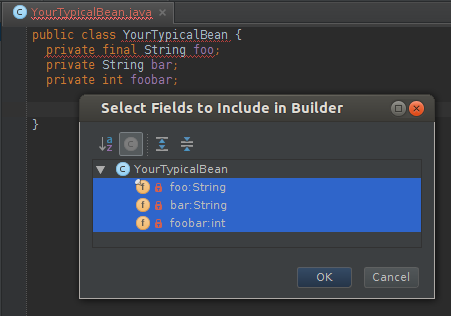
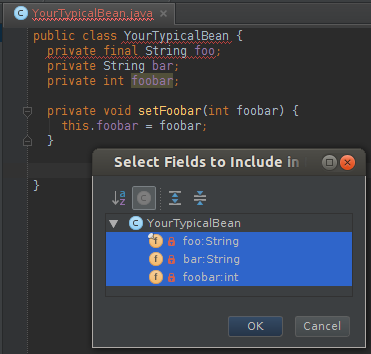
Start new version. Better handling of existing methods. [ci skip]

diff --git a/src/main/java/org/jetbrains/plugins/innerbuilder/GenerateInnerBuilderHandler.java b/src/main/java/org/jetbrains/plugins/innerbuilder/GenerateInnerBuilderHandler.java
@@ -77,37 +77,22 @@ public class GenerateInnerBuilderHandler implements LanguageCodeInsightActionHan
                     }
                 }
                 constructorTakingBuilder.append("}");
-                codeStyleManager.reformat(addOrReplaceMethod(clazz, constructorTakingBuilder.toString()));
+                codeStyleManager.reformat(addMethod(clazz, null, constructorTakingBuilder.toString()));
 
-                // final fields become constructor fields in the builder
-                List<PsiField> finalFields = new ArrayList<PsiField>();
+                List<PsiFieldMember> finalFields = new ArrayList<PsiFieldMember>();
+                List<PsiFieldMember> nonFinalFields = new ArrayList<PsiFieldMember>();
+
+                PsiElement addedField = null;
                 for (PsiFieldMember member : fieldMembers) {
                     PsiField field = member.getElement();
+
+                    addedField = addField(builderClass, addedField, field.getName(), field.getType());
 
                     if (field.hasModifierProperty(PsiModifier.FINAL)) {
-                        finalFields.add(field);
-                    }
-                }
-
-                // add all final fields to the builder
-                for (PsiField field : finalFields) {
-                    if (!hasField((builderClass), field)) {
-                        PsiField builderField = psiElementFactory.createField(field.getName(), field.getType());
-                        builderField.getModifierList().setModifierProperty(PsiModifier.FINAL, true);
-                        builderClass.add(builderField);
-                    }
-                }
-
-                // add all non-final fields to the builder
-                List<PsiField> nonFinalFields = new ArrayList<PsiField>();
-                for (PsiFieldMember member : fieldMembers) {
-                    PsiField field = member.getElement();
-
-                    if (!hasField((builderClass), field) && !field.hasModifierProperty(PsiModifier.FINAL)) {
-                        nonFinalFields.add(field);
-
-                        PsiField builderField = psiElementFactory.createField(field.getName(), field.getType());
-                        builderClass.add(builderField);
+                        finalFields.add(member);
+                        ((PsiField) addedField).getModifierList().setModifierProperty(PsiModifier.FINAL, true);
+                    } else {
+                        nonFinalFields.add(member);
                     }
                 }
 
@@ -115,63 +100,78 @@ public class GenerateInnerBuilderHandler implements LanguageCodeInsightActionHan
                 StringBuilder constructor = new StringBuilder();
                 constructor.append("public Builder(");
 
-                for (Iterator<PsiField> iterator = finalFields.iterator(); iterator.hasNext(); ) {
-                    PsiField field = iterator.next();
-                    constructor.append(field.getTypeElement().getType().getCanonicalText()).append(" ").append(field.getName());
+                for (Iterator<PsiFieldMember> iterator = finalFields.iterator(); iterator.hasNext(); ) {
+                    PsiFieldMember member = iterator.next();
+                    constructor.append(member.getElement().getType().getCanonicalText()).append(" ").append(member.getElement().getName());
 
                     if (iterator.hasNext()) {
-                        constructor.append(",");
+                        constructor.append(", ");
                     }
                 }
                 constructor.append(") {");
-                for (PsiField field : finalFields) {
-                    constructor.append("this.").append(field.getName()).append("=").append(field.getName()).append(";");
+                for (PsiFieldMember field : finalFields) {
+                    constructor.append("this.").append(field.getElement().getName()).append("=").append(field.getElement().getName()).append(";");
                 }
                 constructor.append("}");
-                addOrReplaceMethod(builderClass, constructor.toString());
+                addMethod(builderClass, null, constructor.toString());
 
                 // copy builder constructor, accepting a clazz instance
                 StringBuilder copyConstructor = new StringBuilder();
                 copyConstructor.append("public Builder(").append(clazz.getName()).append(" copy) {");
-                for (PsiField field : finalFields) {
-                    copyConstructor.append(field.getName()).append("= copy.").append(field.getName()).append(";");
+                for (PsiFieldMember member : finalFields) {
+                    copyConstructor.append(member.getElement().getName()).append("= copy.").append(member.getElement().getName()).append(";");
                 }
-                for (PsiField field : nonFinalFields) {
-                    copyConstructor.append(field.getName()).append("= copy.").append(field.getName()).append(";");
+                for (PsiFieldMember member : nonFinalFields) {
+                    copyConstructor.append(member.getElement().getName()).append("= copy.").append(member.getElement().getName()).append(";");
                 }
                 copyConstructor.append("}");
-                addOrReplaceMethod(builderClass, copyConstructor.toString());
+                addMethod(builderClass, null, copyConstructor.toString());
+
+                PsiElement added = null;
 
                 // builder methods
-                for (PsiField field : nonFinalFields) {
+                for (PsiFieldMember member : nonFinalFields) {
+                    PsiField field = member.getElement();
+
                     String setMethodText = "public "
-                            + "Builder" + " " + field.getName() + "(" + field.getTypeElement().getType().getCanonicalText()
+                            + "Builder" + " " + field.getName() + "(" + field.getType().getCanonicalText()
                             + " " + field.getName() + "){"
                             + "this." + field.getName() + "=" + field.getName() + ";"
                             + "return this;"
                             + "}";
-                    addOrReplaceMethod(builderClass, setMethodText);
+
+                    added = addMethod(builderClass, added, setMethodText);
                 }
 
                 // builder.build() method
-                addOrReplaceMethod(builderClass, "public " + clazz.getName() + " build() { return new " + clazz.getName() + "(this);}");
+                addMethod(builderClass, null, "public " + clazz.getName() + " build() { return new " + clazz.getName() + "(this);}");
                 codeStyleManager.reformat(builderClass);
             }
 
-            boolean hasField(PsiClass clazz, PsiField field) {
-                return clazz.findFieldByName(field.getName(), false) != null;
+            PsiElement addField(PsiClass target, PsiElement after, String name, PsiType type) {
+                PsiField existingField = target.findFieldByName(name, false);
+
+                if (existingField == null) {
+                    PsiField newField = psiElementFactory.createField(name, type);
+                    if (after != null) {
+                        return target.addAfter(newField, after);
+                    } else {
+                        return target.add(newField);
+                    }
+                } else return existingField;
             }
 
-            PsiMethod addOrReplaceMethod(PsiClass target, String methodText) {
+            PsiElement addMethod(PsiClass target, PsiElement after, String methodText) {
                 PsiMethod newMethod = psiElementFactory.createMethodFromText(methodText, null);
                 PsiMethod existingMethod = target.findMethodBySignature(newMethod, false);
 
-                if (existingMethod != null) {
-                    existingMethod.replace(newMethod);
-                } else {
-                    target.add(newMethod);
-                }
-                return newMethod;
+                if (existingMethod == null) {
+                    if (after != null) {
+                        return target.addAfter(newMethod, after);
+                    } else {
+                        return target.add(newMethod);
+                    }
+                } else return existingMethod;
             }
         });
     }
@@ -255,8 +255,10 @@ public class GenerateInnerBuilderHandler implements LanguageCodeInsightActionHan
 
                 // remove any logging fields
                 if ("org.apache.log4j.Logger".equals(field.getType().getCanonicalText())
+                        || "org.apache.logging.log4j.Logger".equals(field.getType().getCanonicalText())
                         || "java.util.logging.Logger".equals(field.getType().getCanonicalText())
                         || "org.slf4j.Logger".equals(field.getType().getCanonicalText())
+                        || "ch.qos.logback.classic.Logger".equals(field.getType().getCanonicalText())
                         || "net.sf.microlog.core.Logger".equals(field.getType().getCanonicalText())
                         || "org.apache.commons.logging.Log".equals(field.getType().getCanonicalText())) {
                     continue;
@@ -277,8 +279,7 @@ public class GenerateInnerBuilderHandler implements LanguageCodeInsightActionHan
      * @return true if the string has a lowercase character, false if not.
      */
     private static boolean hasLowerCaseChar(String s) {
-        char[] chars = s.toCharArray();
-        for (char c : chars) {
+        for (char c : s.toCharArray()) {
             if (Character.isLowerCase(c)) {
                 return true;
             }

diff --git a/README.md b/README.md
@@ -17,7 +17,11 @@ public class YourTypicalBean {
   private YourTypicalBean(Builder builder) {
     foo = builder.foo;
     bar = builder.bar;
-    foobar = builder.foobar;
+    setFoobar(builder.foobar);
+  }
+
+  private void setFoobar(int foobar) {
+    this.foobar = foobar;
   }
 
   public static final class Builder {
